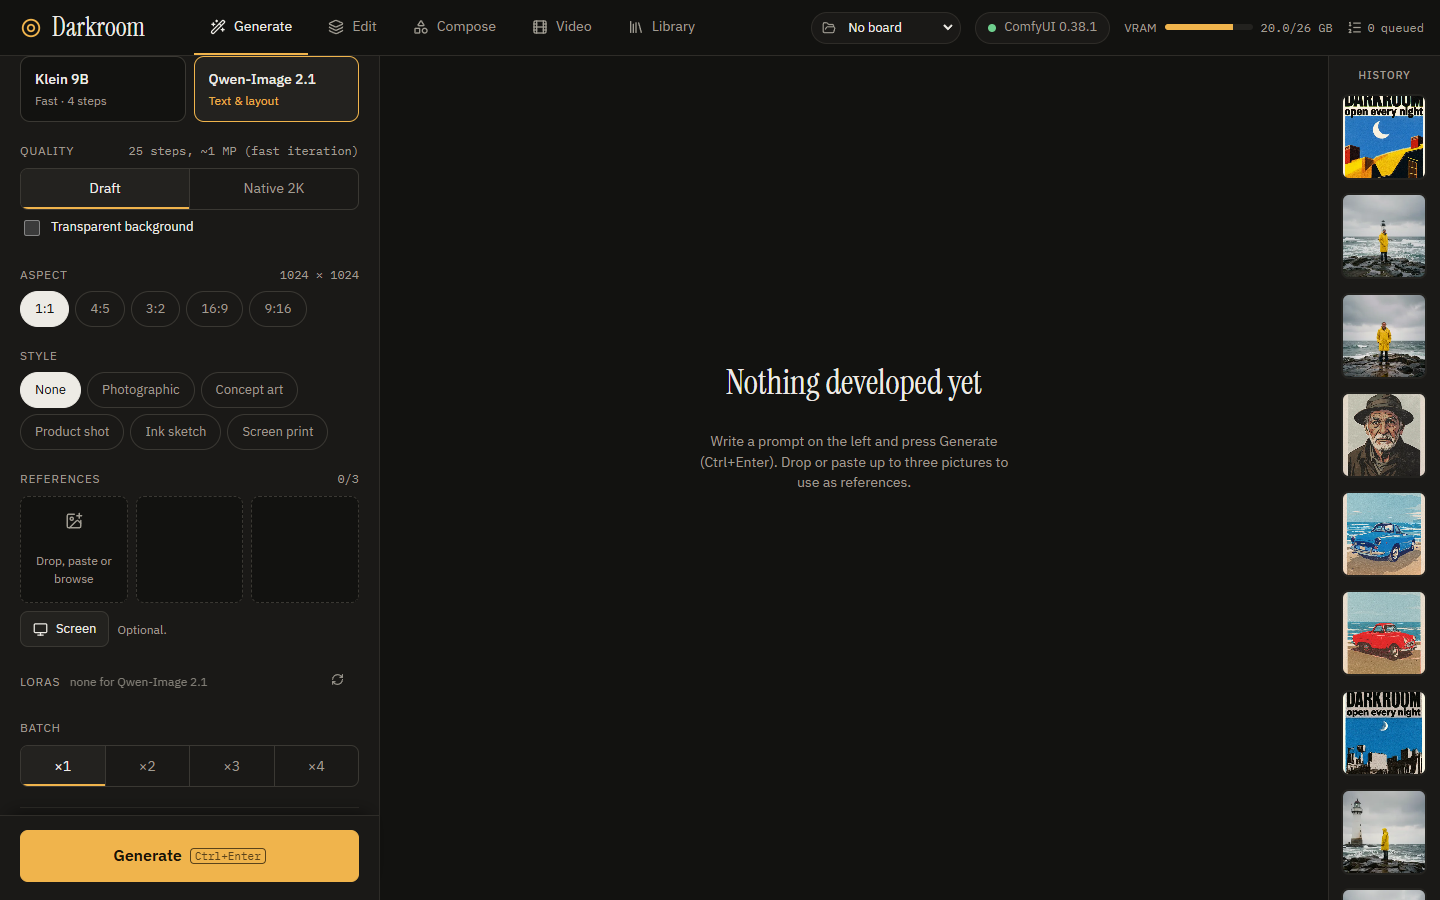
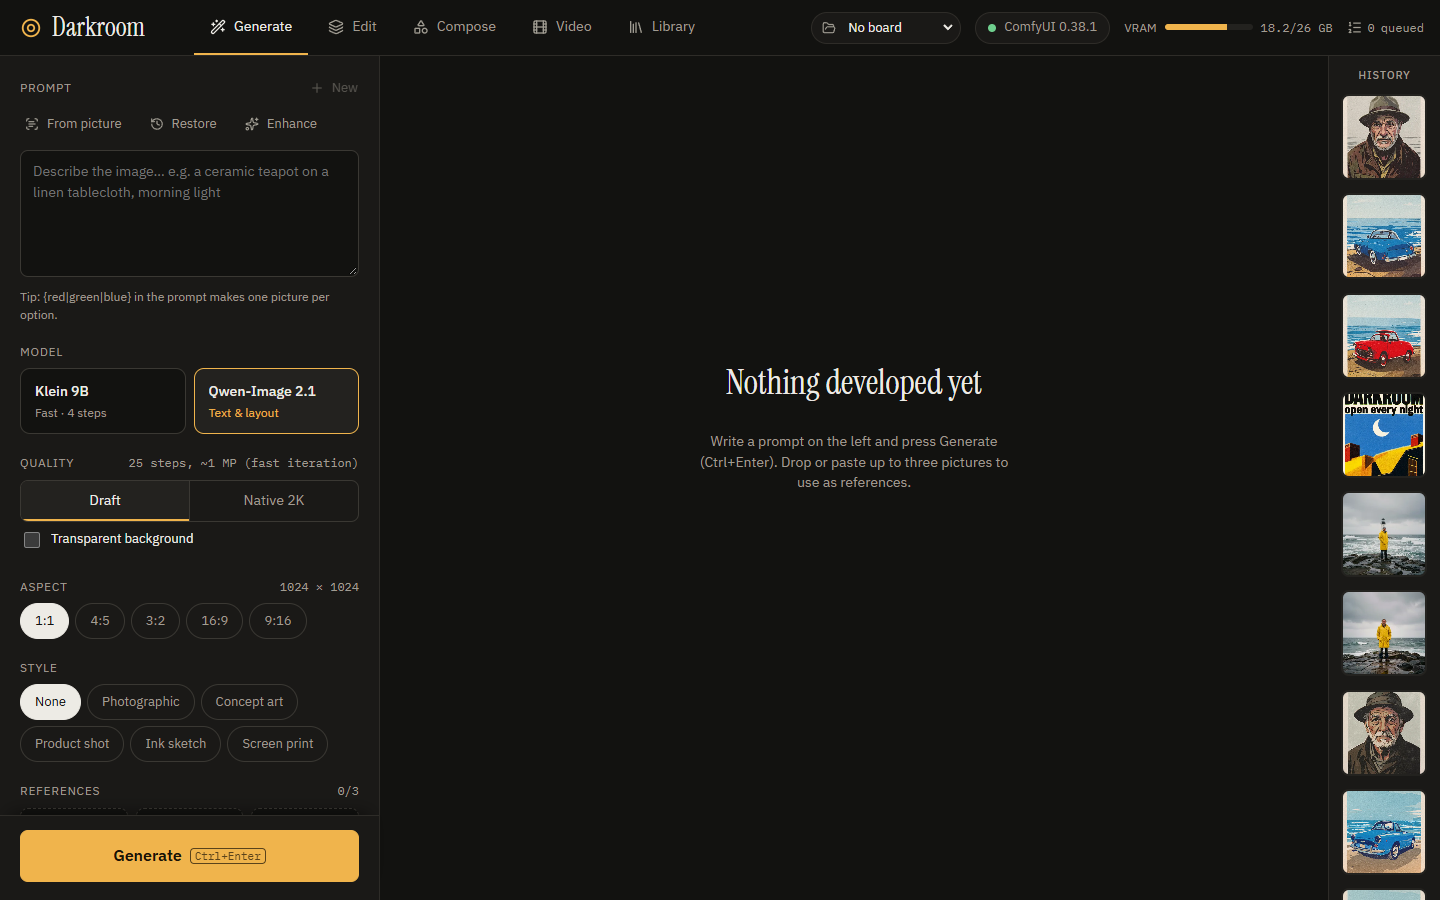
Klein Quality: Standard (~1 MP) / High (~2 MP), each model keeps its own quality; e2e, decision 89

diff --git a/src/web/screens/Generate.tsx b/src/web/screens/Generate.tsx
@@ -54,8 +54,10 @@ export interface GenSettings {
   steps: number;
   cfg: number;
   refs: Ref[];
-  /** Qwen: 'standard' | 'high' */
+  /** Qwen: 'standard' (Draft) | 'high' (Native 2K) */
   quality?: string;
+  /** Klein: 'standard' (~1 MP) | 'high' (~2 MP). Its own setting, so Native 2K for Qwen never makes Klein High. */
+  kleinQuality?: string;
   /** Qwen: transparent background (real alpha) */
   transparent?: boolean;
   /** Your LoRAs, per model (a preference, like the style). */
@@ -138,7 +140,9 @@ export function Generate({ query }: { query: URLSearchParams }) {
   const job: Job | undefined = jobId ? jobs[jobId] : undefined;
   const running = !!job && (job.status === 'queued' || job.status === 'running');
   const aspectsFor = (mm: typeof model, quality?: string) => mm?.quality?.[quality ?? 'standard']?.aspects ?? mm?.aspects;
-  const [w, h] = model ? aspectsFor(model, s.quality)![s.aspect] : [1024, 1024];
+  /** Each model keeps its own quality choice. */
+  const qualityOf = (st: Pick<GenSettings, 'model' | 'quality' | 'kleinQuality'>) => (st.model === 'klein' ? st.kleinQuality : st.quality) ?? 'standard';
+  const [w, h] = model ? aspectsFor(model, qualityOf(s))![s.aspect] : [1024, 1024];
   const T = boot?.prompts;
 
   const update = (p: Partial<GenSettings>) => setS((prev) => ({ ...prev, ...p }));
@@ -346,11 +350,11 @@ export function Generate({ query }: { query: URLSearchParams }) {
         transparent: cur.model === 'qwen' && !!cur.transparent,
       });
     const wf = cur.refs.length ? mm.ref : mm.t2i;
-    const q = mm.quality?.[cur.quality ?? 'standard'];
-    const [ww, hh] = aspectsFor(mm, cur.quality)![cur.aspect];
+    const q = mm.quality?.[qualityOf(cur)];
+    const [ww, hh] = aspectsFor(mm, qualityOf(cur))![cur.aspect];
     const params: Record<string, string | number> = {
       seed,
-      steps: q ? q.steps : cur.steps,
+      steps: q?.steps ?? cur.steps,
       cfg: mm.ranges.cfg[0] === mm.ranges.cfg[1] ? mm.ranges.cfg[0] : cur.cfg,
       width: ww,
       height: hh,
@@ -579,18 +583,20 @@ export function Generate({ query }: { query: URLSearchParams }) {
           {model.quality && (
             <div>
               <p className="section-label">
-                Quality <span className="mono">{model.quality[s.quality ?? 'standard']?.note}</span>
+                Quality <span className="mono">{model.quality[qualityOf(s)]?.note}</span>
               </p>
               <Segmented
                 label="Quality"
                 options={Object.entries(model.quality).map(([k, v]) => ({ value: k, label: v.label, title: v.note }))}
-                value={s.quality ?? 'standard'}
-                onChange={(quality) => update({ quality })}
+                value={qualityOf(s)}
+                onChange={(q) => update(s.model === 'klein' ? { kleinQuality: q } : { quality: q })}
               />
-              <label className="check" title="Qwen-Image 2.1 can paint a real transparent background (saved as PNG with alpha)">
-                <input type="checkbox" checked={!!s.transparent} onChange={(e) => update({ transparent: e.target.checked })} />
-                Transparent background
-              </label>
+              {s.model === 'qwen' && (
+                <label className="check" title="Qwen-Image 2.1 can paint a real transparent background (saved as PNG with alpha)">
+                  <input type="checkbox" checked={!!s.transparent} onChange={(e) => update({ transparent: e.target.checked })} />
+                  Transparent background
+                </label>
+              )}
             </div>
           )}
 

diff --git a/e2e/features-v2.spec.ts b/e2e/features-v2.spec.ts
@@ -34,6 +34,31 @@ test.describe.serial('Darkroom v2 features', () => {
     await shot(page, 'generate-qwen-options');
   });
 
+  test('Generate: Klein Quality High renders ~2 MP; each model keeps its own quality', async () => {
+    await page.goto('/#/generate');
+    await page.getByRole('button', { name: /^Qwen-Image 2.1/ }).click();
+    await page.getByRole('group', { name: 'Quality' }).getByRole('button', { name: 'Draft' }).click();
+    await page.getByRole('button', { name: /^Klein 9B/ }).click();
+    const quality = page.getByRole('group', { name: 'Quality' });
+    await expect(page.getByLabel('Transparent background')).toHaveCount(0); // Qwen only
+    await quality.getByRole('button', { name: 'High' }).click();
+    await page.getByRole('group', { name: 'Aspect ratio' }).getByRole('button', { name: '3:2' }).click();
+    await expect(page.getByText('1728 × 1152')).toBeVisible();
+    await page.getByLabel('Prompt').fill('a bakery storefront with a hand-painted sign reading "SUNRISE BAKERY", cobbled street');
+    const sent = page.waitForRequest((r) => r.url().endsWith('/api/jobs') && r.method() === 'POST');
+    await page.getByRole('button', { name: 'Generate Ctrl+Enter' }).click();
+    const body = (await sent).postDataJSON();
+    expect([body.params.width, body.params.height, body.params.steps]).toEqual([1728, 1152, 4]);
+    await expect.poll(async () => ((await (await page.request.get('/api/items?limit=5&filter=generated')).json()).items as any[]).some((i) => i.width === 1728 && i.height === 1152), { timeout: 120_000 }).toBe(true);
+    // Qwen kept Draft: Klein's High is its own setting
+    await page.getByRole('button', { name: /^Qwen-Image 2.1/ }).click();
+    await expect(page.getByRole('group', { name: 'Quality' }).getByRole('button', { name: 'Draft' })).toHaveAttribute('aria-pressed', 'true');
+    await page.getByRole('button', { name: /^Klein 9B/ }).click();
+    await expect(quality.getByRole('button', { name: 'High' })).toHaveAttribute('aria-pressed', 'true');
+    await quality.getByRole('button', { name: 'Standard' }).click();
+    await page.getByRole('group', { name: 'Aspect ratio' }).getByRole('button', { name: '1:1' }).click();
+  });
+
   test('Generate: Enhance rewrites the prompt with the local VLM, Undo restores it', async () => {
     await page.goto('/#/generate');
     await page.getByRole('button', { name: /^Qwen-Image 2.1/ }).click();

diff --git a/src/shared/manifest.ts b/src/shared/manifest.ts
@@ -14,8 +14,8 @@ export interface ImageModel {
   aspects: Record<Aspect, [number, number]>;
   defaults: { steps: number; cfg: number };
   ranges: { steps: [number, number]; cfg: [number, number] };
-  /** Optional quality presets (Qwen: Standard / High). */
-  quality?: Record<string, { label: string; note: string; steps: number; aspects: Record<Aspect, [number, number]> }>;
+  /** Optional quality presets (Qwen: Draft / Native 2K; Klein: Standard / High). No steps = the model's own steps setting. */
+  quality?: Record<string, { label: string; note: string; steps?: number; aspects: Record<Aspect, [number, number]> }>;
 }
 
 export type VideoQuality = 'draft' | 'final';

diff --git a/README.md b/README.md
@@ -6,7 +6,7 @@ work; Darkroom is the only window you use day to day.
 | Screen | What it does |
 |---|---|
 | **Home** | Where Darkroom opens: pick Generate, Edit, Compose, Video or Library, **upload your own pictures** to edit (drop, paste or browse — several at once), continue where you left off, or open recent work. The logo brings you back here. |
-| **Generate** | Prompt → Klein 9B (fast, 4 steps) or Qwen-Image 2.1 (text & layout; Draft ~1 MP or Native 2K, transparent background). Aspect pills, per-model style presets, up to 3 reference images (drop, paste, or capture part of your screen), batch ×1–4. **Enhance** expands a short idea into a model-specific prompt and **From picture** writes a prompt from an image (local Qwen3-VL); Undo puts your text back. |
+| **Generate** | Prompt → Klein 9B (fast, 4 steps; Standard ~1 MP or High ~2 MP for finer detail and text) or Qwen-Image 2.1 (text & layout; Draft ~1 MP or Native 2K, transparent background). Aspect pills, per-model style presets, up to 3 reference images (drop, paste, or capture part of your screen), batch ×1–4. **Enhance** expands a short idea into a model-specific prompt and **From picture** writes a prompt from an image (local Qwen3-VL); Undo puts your text back. |
 | **Edit** | Mask brush / eraser / lasso on a zoomable canvas. Pick **Klein 9B or Qwen-Image 2.1** for Instruct (with 56 presets), Inpaint (crop and stitch), Outpaint and Enhance (Restore); a red-circle quick edit (Qwen); Remove BG (fast or Qwen best quality); Layers; Upscale 2–8× (SeedVR2, keeps transparency); Crop. Every apply is a new version (v1, v2…), with a before/after slider and undo/redo. |
 | **Compose** | Arrange pictures, cut-outs (one-click background removal) and rough paint on a canvas — move, scale on a ground line, flip, order — then **Render**: *Blend edges* (keeps your pieces exactly, redraws only the joins and shadows), *Harmonise* (Qwen: one coherent photo, faces and objects kept) or *Reimagine* (Klein: paint becomes the real thing; the local Qwen3-VL describes the scene first if you leave it empty). Compositions save themselves; renders go to the Library. Evidence: docs/qa/COMPOSE_AB.md. |
 | **Video** | Start frame (+ optional end frame) → Wan 2.2 (best motion) or LTX 2.5 (fast drafts). 3/5/8 s, Draft 480p / Final 720p, camera chips, measured time estimate. Takes panel, Extend +5 s, Smooth 2×, Save frame. Jobs keep running if you close or reload the page. |

diff --git a/HANDOVER.md b/HANDOVER.md
@@ -75,7 +75,7 @@ BENCHMARKS.md.
   Recycle Bin), multi-select, Darkroom reopens on your last screen, prompt tools no longer cut off.
 - **Compose** (DECISIONS 87): canvas of pictures, cut-outs and paint rendered by Blend edges / Harmonise / Reimagine;
   saved compositions. A/B and the reasons: `docs/qa/COMPOSE_AB.md`.
-- `npm test`: 322 unit tests. `npm run e2e`: 45 end-to-end tests in Edge against ComfyUI (v1, v2 and the addenda). If Darkroom is already open from the desktop shortcut, run the test stack beside it on
+- `npm test`: 322 unit tests. `npm run e2e`: 46 end-to-end tests in Edge against ComfyUI (v1, v2 and the addenda). If Darkroom is already open from the desktop shortcut, run the test stack beside it on
   another port with its own library: `DR_SERVER_PORT=5179 DR_DATA_DIR=data/e2e npm run dev`, then `npx playwright test`.
 - `docs/QA_REPORT.md`: every feature run on the golden test pictures (`tests/golden/`), with grids, timings, peak memory,
   a model-switching stress test and the remaining known issues. Re-run with `npx tsx scripts/qa-phase6.ts features`.

diff --git a/DECISIONS.md b/DECISIONS.md
@@ -495,3 +495,8 @@ Each choice made while building Darkroom, and why. Newest decisions are appended
     clear gain (text, fur, skin, crowds; 13–14 s) and is proposed as a Klein Quality choice. UI: the top bar no longer
     pushes the app past 1280 px, the LoRA list fits its panel, an empty LoRA section is one line, Generate's Quality
     sits under Model, Compose's Render area is compact on short screens.
+89. **Klein Quality: Standard (~1 MP) / High (~2 MP).** From the v3 review (decision 88, `docs/qa/addenda/rv/klein-2mp.jpg`):
+    at ~2 MP Klein spells signs right, and fur, skin and crowds are finer; 13–14 s instead of 7.5 s at the same memory
+    peak. High sizes: 1408², 1264×1584, 1728×1152, 1920×1088, 1088×1920 (÷16). Steps stay with Klein's own Advanced
+    control (4). Each model keeps its own quality (`kleinQuality` beside Qwen's `quality`), so Native 2K for Qwen never
+    makes Klein High. Checked on the card: High ×4 batch 55 s / 20.2 GB peak; High with 3 references 39 s / 22.3 GB.
